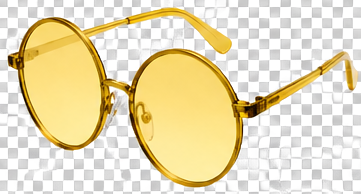
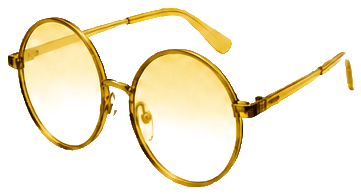
Fix checkerboard artifact in transparent cutouts, revert to 4-col grid
- The angle-view cutouts (hero_no_bg.png) had a visible checkerboard
  baked into their actual alpha channel — not a CSS background issue.
  Root cause: the white-background removal ramp (dist_from_white * 5)
  started ramping up well within the source's background dithering
  noise (measured up to ~78), so noisy background pixels randomly
  registered as semi-to-fully opaque, creating false-positive speckling
  that reads as a checker pattern. Fixed by starting the alpha ramp well
  above the measured noise ceiling (110) so noise always clamps to
  fully transparent.
- Reverted homepage grid from 3 to 4 columns for smaller tiles, and
  recalculated the gender-checkerboard model assignment for 4 columns
  to match (still alternates correctly).

diff --git a/app/page.tsx b/app/page.tsx
@@ -97,7 +97,7 @@ export default async function Home() {
             Sixteen shapes across two materials. Plastic ₹1,499, metal ₹1,999.
           </p>
 
-          <div className="mt-10 grid grid-cols-2 gap-1 md:grid-cols-3">
+          <div className="mt-10 grid grid-cols-2 gap-0.5 md:grid-cols-4">
             {collection.map((chapter, i) => (
               <CollectionItem
                 key={chapter.slug}
